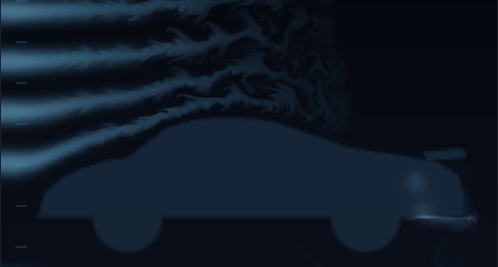
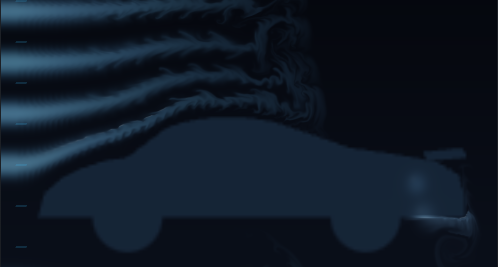
Three model families (car, ship, plane): real jet scene with wingtip vortex pair; hull water rebuilt to read as water (foam at the line, droplets, deep-blue underflow); proof strip now plain evidence (no competitor price, no borrowed funding claim); shelf section lists car/ship/plane models first

diff --git a/wakefield-fluid.js b/wakefield-fluid.js
@@ -306,6 +306,10 @@
     /* horizon glow where sky meets sea */
     '    float hor = exp(-pow((vUv.y - wl) * 130.0, 2.0));',
     '    col = mix(sea, sky, isSky) + vec3(0.100, 0.170, 0.200) * hor;',
+    /* dye under the surface is tinted toward sea water, so the currents read
+       as water and never as pale smoke; foam and spray at the line stay white */
+    '    float dpt = clamp((wl - vUv.y) / 0.30, 0.0, 1.0);',
+    '    c = mix(c, c * vec3(0.50, 0.92, 1.28), dpt);',
     '    col += c * 1.25;',
     '    col += spec * d * 0.55;',
     /* the ship's reflection: mirrored above the line, wobbling, fading with depth */
@@ -476,6 +480,39 @@
     return { x: SHIP_RECT.x + (SHIP_RECT.w - w) / 2, w: w, bottomY: SHIP_RECT.bottomY };
   }
 
+  /* real model sprite: a CC0 regional jet (Innerscene library), nose left into
+     the wind — same contract as the car and the ship. The GLB ships with a
+     ground-shadow mesh; the bottom 92px were cropped off the render.          */
+  var PLANE_IMG_AR = 4.5155;                               /* png width / height */
+  var PLANE_RECT = { x: 0.075, w: 0.85, bottomY: 0.78 };   /* canvas uv, y down  */
+  var PLANE_MASK = null;
+
+  function buildPlaneMask(img) {
+    var cv = newCanvas(Math.round(img.width / 2), Math.round(img.height / 2));
+    var ctx = cv.getContext('2d');
+    ctx.drawImage(img, 0, 0, cv.width, cv.height);
+    var d = ctx.getImageData(0, 0, cv.width, cv.height);
+    var p = d.data;
+    for (var i = 0; i < p.length; i += 4) {
+      if (p[i + 3] > 110) { p[i] = 255; p[i + 1] = 255; p[i + 2] = 255; p[i + 3] = 255; }
+      else { p[i + 3] = 0; }
+    }
+    ctx.putImageData(d, 0, 0);
+    return cv;
+  }
+
+  /* the fin is tall for the fuselage length; shrink on narrow canvases */
+  function planeRectFor(aspect) {
+    var w = PLANE_RECT.w;
+    var hUv = w * aspect / PLANE_IMG_AR;
+    var top = PLANE_RECT.bottomY - hUv * 0.985;
+    if (top < 0.03) {
+      var k = (PLANE_RECT.bottomY - 0.03) / (hUv * 0.985);
+      w *= k;
+    }
+    return { x: PLANE_RECT.x + (PLANE_RECT.w - w) / 2, w: w, bottomY: PLANE_RECT.bottomY };
+  }
+
   var SIL = {
     /* low-slung coupe, side view, nose left */
     car: function (ctx, W, H, op) {
@@ -589,10 +626,21 @@
       var h = w / SHIP_IMG_AR;
       ctx.drawImage(SHIP_MASK, r.x * W, r.bottomY * H - h, w, h);
       return true;
+    },
+
+    /* the real jet: alpha mask into the solver */
+    planeReal: function (ctx, W, H, op) {
+      if (op !== 'fill' || !PLANE_MASK) return false;
+      var r = planeRectFor(W / H);
+      var w = r.w * W;
+      var h = w / PLANE_IMG_AR;
+      ctx.drawImage(PLANE_MASK, r.x * W, r.bottomY * H - h, w, h);
+      return true;
     }
   };
   SIL.carReal.noStroke = true;
   SIL.shipReal.noStroke = true;
+  SIL.planeReal.noStroke = true;
 
   /* --------------------------------- scenes ------------------------------- */
   var SCENES = {
@@ -631,6 +679,18 @@
       waterLine: 0.50, heave: 0.0125, pitchDeg: 1.6, waveAmp: 0.0090,
       tag: 'Live · sail-ship.glb · seaway',
       foot: [['water', '5.2 m/s'], ['wake', 'shedding'], ['solver', 'navier-stokes']]
+    },
+    plane: {
+      mode: 0, sil: 'planeReal', flowDir: 1,  /* wind left -> right, the real jet noses into it */
+      inflow: 7.2, gust: 0.34,
+      velDiss: 0.19, denDiss: 2.90, curl: 20, pressure: 0.84,
+      /* the main rake sweeps the wing chord and separates over the fuselage;
+         the upper pair runs clean above the fin */
+      lineCount: 4, lineFrom: 0.205, lineTo: 0.325,
+      lines2: { count: 2, from: 0.455, to: 0.495 },
+      dye: [0.34, 0.70, 1.00], dyeVar: 0.30, dyeGain: 0.036, splatRadius: 0.050,
+      tag: 'Live · regional-jet.glb · wind tunnel',
+      foot: [['wind', '7.2 m/s'], ['model', 'regional jet'], ['solver', 'navier-stokes']]
     }
   };
 
@@ -657,7 +717,12 @@
        bob, so the solid mask must be static too — otherwise the flow wraps
        around a hull that is not where the eye sees it.                        */
     var drawn = SIL[scene.sil](ctx, W, H, 'fill');
-    if (drawn === false) SIL[scene.sil === 'shipReal' ? 'hull' : 'car'](ctx, W, H, 'fill');   /* sprite not loaded yet */
+    if (drawn === false) {
+      /* no silhouette yet for the real models: the ship falls back to its
+         vector hull, the jet waits for its sprite rather than faking a car */
+      var fb = scene.sil === 'shipReal' ? 'hull' : (scene.sil === 'planeReal' ? null : 'car');
+      if (fb) SIL[fb](ctx, W, H, 'fill');
+    }
     ctx.restore();
   }
 
@@ -770,6 +835,27 @@
         }
       };
       shipImg.src = opts.shipSrc;
+    }
+
+    /* real plane sprite state (a third texture so car + ship + jet coexist) */
+    var planeTex = null, planeReady = false;
+    if (opts.planeSrc && global.Image) {
+      var planeImg = new Image();
+      planeImg.onload = function () {
+        PLANE_MASK = buildPlaneMask(planeImg);
+        planeTex = makeMaskTexture();
+        gl.pixelStorei(gl.UNPACK_FLIP_Y_WEBGL, true);
+        gl.activeTexture(gl.TEXTURE0);
+        gl.bindTexture(gl.TEXTURE_2D, planeTex);
+        gl.texImage2D(gl.TEXTURE_2D, 0, gl.RGBA, gl.RGBA, gl.UNSIGNED_BYTE, planeImg);
+        gl.pixelStorei(gl.UNPACK_FLIP_Y_WEBGL, false);
+        planeReady = true;
+        if (scene.sil === 'planeReal') {
+          rasterizeObstacle(obsCv, scene, 0);
+          uploadMask(obsTex, obsCv);
+        }
+      };
+      planeImg.src = opts.planeSrc;
     }
 
     function makeMaskTexture() {
@@ -908,29 +994,42 @@
       var wl = 1 - scene.waterLine;              /* y-up, matches the shader */
       var p = hullPoints();
       var g = scene.dyeGain;
-      var foam = [0.82, 0.93, 1.00];
-      var deep = [0.42, 0.70, 0.95];
+      var foam = [0.90, 0.97, 1.00];             /* whitewater */
+      var deep = [0.30, 0.62, 0.95];             /* sea-blue current */
       var pulse = 0.75 + Math.abs(Math.sin(t * 0.0021)) * 0.6;
 
-      /* bow: the stem shoulders water aside — a bright foamy collar at the line */
-      splat(p.bow, wl - 0.012, -120 * pulse, 42 * pulse,
-        [foam[0] * g * 2.4, foam[1] * g * 2.4, foam[2] * g * 2.4], 0.050);
-      splat(p.bow - 0.030, wl - 0.034, -80 * pulse, -28 * pulse,
-        [deep[0] * g * 1.7, deep[1] * g * 1.7, deep[2] * g * 1.7], 0.044);
+      /* bow: broken whitewater AT the waterline — never a tall pale column,
+         that reads as smoke. The stem shoulders water aside; foam sheds aft. */
+      splat(p.bow, wl - 0.004, -95 * pulse, 6 * pulse,
+        [foam[0] * g * 2.0, foam[1] * g * 2.0, foam[2] * g * 2.0], 0.028);
+      splat(p.bow - 0.016, wl - 0.010, -70 * pulse, -6 * pulse,
+        [foam[0] * g * 1.4, foam[1] * g * 1.4, foam[2] * g * 1.4], 0.022);
+      /* spray: a few droplets off the stem, thrown up and fanned back */
+      for (var i = 0; i < 3; i++) {
+        splat(p.bow - 0.006 + (Math.random() - 0.5) * 0.012,
+              wl + 0.004 + Math.random() * 0.012,
+              -60 * pulse - Math.random() * 50,
+              26 + Math.random() * 52,
+              [foam[0] * g * 2.6, foam[1] * g * 2.6, foam[2] * g * 2.6],
+              0.009 + Math.random() * 0.008);
+      }
+      /* under-bow current: the sea is deflected DOWN along the hull */
+      splat(p.bow - 0.030, wl - 0.034, -80 * pulse, -34 * pulse,
+        [deep[0] * g * 1.8, deep[1] * g * 1.8, deep[2] * g * 1.8], 0.044);
 
-      /* stern: the wake is shed from the transom and carried downstream */
+      /* stern: whitewater off the transom, then the wake carried downstream */
       var shed = 0.60 + Math.abs(Math.sin(t * 0.0013)) * 0.55;
-      splat(p.stern, wl - 0.014, -105 * shed, -26 * shed,
-        [foam[0] * g * 2.8, foam[1] * g * 2.8, foam[2] * g * 2.8], 0.052);
-      splat(p.stern + 0.025, wl - 0.038, -70 * shed, -40 * shed,
-        [deep[0] * g * 1.9, deep[1] * g * 1.9, deep[2] * g * 1.9], 0.042);
+      splat(p.stern, wl - 0.005, -100 * shed, -4 * shed,
+        [foam[0] * g * 2.2, foam[1] * g * 2.2, foam[2] * g * 2.2], 0.030);
+      splat(p.stern + 0.025, wl - 0.030, -70 * shed, -30 * shed,
+        [deep[0] * g * 2.0, deep[1] * g * 2.0, deep[2] * g * 2.0], 0.042);
 
-      /* skin of foam where the hull meets the sea, densest at the quarters */
+      /* broken water where the hull meets the sea */
       for (var i = 0; i < 3; i++) {
         var f = 0.22 + i * 0.28;
         var x = p.stern + (p.bow - p.stern) * f;
-        splat(x, wl - 0.006, -60 * shed, -8 * shed,
-          [foam[0] * g * 1.2, foam[1] * g * 1.2, foam[2] * g * 1.2], 0.030);
+        splat(x, wl - 0.004, -55 * shed, -6 * shed,
+          [foam[0] * g * 0.9, foam[1] * g * 0.9, foam[2] * g * 0.9], 0.020);
       }
     }
 
@@ -957,6 +1056,35 @@
       var u = scene.flowDir * scene.inflow * 16 * shed;
       splat(0.852, 0.302 + flap, u, 14 * shed, [0.40 * g, 0.66 * g, 0.94 * g], 0.048);
       splat(0.838, 0.372 + flap * 0.6, u * 0.75, -22 * shed, [0.30 * g, 0.55 * g, 0.85 * g], 0.040);
+    }
+
+    /* jet: the counter-rotating pair rolls up off the wing and trails
+       downstream, plus the tail-cone wake — the tunnel shot every aircraft
+       modeller knows. Both anchors are read off the real sprite rect, so the
+       trails start exactly where the eye sees the wing and the tail.         */
+    function injectPlane(t) {
+      if (scene.sil !== 'planeReal' || !planeReady) return;
+      var g = scene.dyeGain;
+      var r = planeRectFor(canvas.width / canvas.height);
+      var hUv = r.w * (canvas.width / canvas.height) / PLANE_IMG_AR;
+      /* png fraction -> canvas uv (y-up): wing root at x .475 / y .831,
+         tail cone at x .895 / y .727, measured on the rendered jet png */
+      var toUv = function (fx, fy) {
+        return { x: r.x + fx * r.w, y: 1 - (r.bottomY - hUv + fy * hUv) };
+      };
+      var wing = toUv(0.475, 0.831);
+      var tail = toUv(0.895, 0.727);
+      var shed = 0.60 + Math.abs(Math.sin(t * 0.0015)) * 0.55;
+      var u = scene.flowDir * scene.inflow * 15 * shed;
+      var wob = Math.sin(t * 0.0026) * 0.004;
+      /* the pair: one core above the chord, one below, counter-rotating */
+      splat(wing.x + 0.010, wing.y + 0.024 + wob, u * 0.92,  34 * shed,
+        [0.40 * g, 0.66 * g, 0.94 * g], 0.014);
+      splat(wing.x + 0.010, wing.y - 0.024 + wob, u * 0.92, -34 * shed,
+        [0.30 * g, 0.55 * g, 0.85 * g], 0.014);
+      /* tail cone wake */
+      splat(tail.x, tail.y + wob * 0.6, u * 0.80, Math.sin(t * 0.0031) * 12,
+        [0.34 * g, 0.62 * g, 0.92 * g], 0.020);
     }
 
     /* ------------------------------ boundary ------------------------------ */
@@ -1071,9 +1199,12 @@
       var rect = null, tex = null;
       if (scene.sil === 'carReal' && spriteReady) { rect = CAR_RECT; tex = spriteTex; }
       if (scene.sil === 'shipReal' && shipReady) { rect = shipRectFor(canvas.width / canvas.height); tex = shipTex; }
+      if (scene.sil === 'planeReal' && planeReady) { rect = planeRectFor(canvas.width / canvas.height); tex = planeTex; }
       if (tex) {
         var aspect = canvas.width / canvas.height;
-        var imgAR = (rect === CAR_RECT) ? CAR_IMG_AR : SHIP_IMG_AR;
+        var imgAR = CAR_IMG_AR;
+        if (scene.sil === 'shipReal') imgAR = SHIP_IMG_AR;
+        if (scene.sil === 'planeReal') imgAR = PLANE_IMG_AR;
         var hUv = rect.w * aspect / imgAR;
         gl.uniform1i(pDisplay.u.uSprite, 2);
         gl.activeTexture(gl.TEXTURE2); gl.bindTexture(gl.TEXTURE_2D, tex);
@@ -1164,6 +1295,22 @@
           ctx.quadraticCurveTo(cx, yy - H * 0.004, cx + len / 2, yy);
           ctx.stroke();
         }
+
+        /* bow wave: a bright crest piles up at the stem and runs forward */
+        var bw = hullPoints();
+        var bwX = bw.bow * W;
+        var bwY = waveAt(bwX, 7.2, 0, amp);
+        ctx.save();
+        ctx.strokeStyle = 'rgba(205,252,255,.55)';
+        ctx.lineWidth = Math.max(1.2, W * 0.0026);
+        ctx.shadowColor = 'rgba(94,234,212,.9)';
+        ctx.shadowBlur = W * 0.014;
+        ctx.beginPath();
+        ctx.moveTo(bwX - W * 0.004, bwY - H * 0.004);
+        ctx.quadraticCurveTo(bwX + W * 0.040, bwY - H * 0.022,
+                             bwX + W * 0.082, bwY + H * 0.005);
+        ctx.stroke();
+        ctx.restore();
       } else {
         /* inlet rake on the left */
         ctx.save();
@@ -1209,6 +1356,7 @@
         if (scene.mode === 1) injectHull(now);
         injectHair(now);
         injectCarWake(now);
+        injectPlane(now);
         step(dt);
       }
       warm++;
@@ -1276,6 +1424,7 @@
       getScene: function () { return scene; },
       spriteReady: function () { return spriteReady; },
       shipReady: function () { return shipReady; },
+      planeReady: function () { return planeReady; },
       isWebGL2: info.isWebGL2
     };
   }

diff --git a/index.html b/index.html
@@ -4,7 +4,7 @@
 <meta charset="UTF-8">
 <meta name="viewport" content="width=device-width, initial-scale=1.0">
 <title>Wakefield — Give it wind. Give it water.</title>
-<meta name="description" content="Upload your car or ship model, pick air or water, and get the film back — smoke off the canopy, a bow wave off the stem, spray over the deck.">
+<meta name="description" content="Upload your car, ship or plane model, pick air or water, and get the film back — smoke off the canopy, a bow wave off the stem, spray over the deck.">
 <link rel="icon" type="image/svg+xml" href="favicon.svg">
 <link rel="preconnect" href="https://fonts.googleapis.com">
 <link rel="preconnect" href="https://fonts.gstatic.com" crossorigin>
@@ -235,10 +235,10 @@
 <header class="hero">
   <div class="wrap hero-grid">
     <div>
-      <div class="eyebrow"><span class="dot"></span>For car &amp; ship model enthusiasts</div>
+      <div class="eyebrow"><span class="dot"></span>For car, ship &amp; plane model enthusiasts</div>
       <h1>Give it <em>wind.</em><br>Give it <em>water.</em></h1>
       <p class="sub">
-        Upload the model you already own &mdash; <b>STL, OBJ or GLB.</b>
+        Upload the model you already own &mdash; <b>car, ship or plane.</b> STL, OBJ or GLB.
         We run it through a real Navier&ndash;Stokes solver, the same physics a wind tunnel uses,
         and send back the film: <b>smoke off the canopy, a bow wave off the stem, spray over the deck.</b>
         No rigging, no baking &mdash; about a minute.
@@ -258,6 +258,7 @@
       <div class="tabs" role="tablist">
         <button class="tab on" data-scene="car" role="tab">Coupe</button>
         <button class="tab" data-scene="hull" role="tab">Hull</button>
+        <button class="tab" data-scene="plane" role="tab">Plane</button>
       </div>
 
       <canvas id="fluid"></canvas>
@@ -278,12 +279,12 @@
       <span>from upload to film. No rigging, no baking &mdash; the physics just runs.</span>
     </div>
     <div class="proof-stat">
-      <b>$79</b>
-      <span>what a fluid addon costs &mdash; and then you still spend an evening baking each splash by hand.</span>
+      <b>Real solver</b>
+      <span>a true Navier&ndash;Stokes solve &mdash; the same physics a wind tunnel runs.</span>
     </div>
     <div class="proof-stat">
       <b>Air + water</b>
-      <span>both fluids on one upload. Nothing has made the wake behind a hull easy yet.</span>
+      <span>wind for the car and the plane, sea for the ship. One upload.</span>
     </div>
   </div>
 </section>
@@ -360,18 +361,18 @@
   <div class="wrap">
     <div class="sec-head">
       <span class="sec-num">03 &mdash; WHAT PEOPLE RUN</span>
-      <h2>Anything you already own.</h2>
+      <h2>Cars, ships, planes &mdash; and the rest of the shelf.</h2>
     </div>
     <div class="shelf-grid">
       <div>
         <div class="ex-row">
+          <span class="ex hi">Car models</span>
+          <span class="ex hi">Ship models</span>
+          <span class="ex hi">Plane models</span>
           <span class="ex">Figurines</span>
           <span class="ex">Anime &amp; game figures</span>
-          <span class="ex">Collectibles</span>
-          <span class="ex hi">Ship models</span>
-          <span class="ex">Cars &amp; diecast</span>
           <span class="ex">Dioramas</span>
-          <span class="ex">Anything on your shelf</span>
+          <span class="ex">Kit builds &amp; prints</span>
         </div>
       <div class="show-visual">
         <span class="viz-tag">Proof &middot; hull &middot; computed wake</span>
@@ -467,7 +468,7 @@
         <input type="email" name="email" placeholder="you@mail.com" autocomplete="email" required>
       </div>
       <div class="field">
-        <input type="text" name="model" placeholder="Your model &mdash; e.g. 1:18 diecast, figurine, ship">
+        <input type="text" name="model" placeholder="Your model &mdash; e.g. 1:18 diecast, ship, jet">
       </div>
       <div class="field">
         <select name="flow" aria-label="Air or water">
@@ -487,7 +488,7 @@
   <div class="wrap foot-in">
     <p>WAKEFIELD &mdash; AIR &amp; WATER, MADE VISIBLE</p>
     <p>PRIVATE BETA &middot; 2026</p>
-    <p class="credit">Demo vehicles: Ferrari 458 Italia by <a href="https://sketchfab.com/models/57bf6cc56931426e87494f554df1dab6" target="_blank" rel="noopener noreferrer">vicent091036</a>, via <a href="https://threejs.org/examples/webgl_materials_car.html" target="_blank" rel="noopener noreferrer">three.js</a> &middot; Sail Ship by <a href="https://quaternius.com" target="_blank" rel="noopener noreferrer">Quaternius</a>, public domain (CC0).</p>
+    <p class="credit">Demo vehicles: Ferrari 458 Italia by <a href="https://sketchfab.com/models/57bf6cc56931426e87494f554df1dab6" target="_blank" rel="noopener noreferrer">vicent091036</a>, via <a href="https://threejs.org/examples/webgl_materials_car.html" target="_blank" rel="noopener noreferrer">three.js</a> &middot; Sail Ship by <a href="https://quaternius.com" target="_blank" rel="noopener noreferrer">Quaternius</a>, public domain (CC0) &middot; Regional jet by <a href="https://www.innerscene.com/tools/library/3d-parts/regional-jet-aircraft-ae1f8f3d" target="_blank" rel="noopener noreferrer">Innerscene</a>, CC0.</p>
   </div>
 </footer>
 <script src="wakefield-fluid.js"></script>
@@ -514,6 +515,7 @@
         scene: 'car',
         spriteSrc: 'assets/ferrari-body.png',
         shipSrc: 'assets/sailship-body.png',
+        planeSrc: 'assets/jet-body.png',
         simResolution: SIM_RES,
         dyeResolution: DYE_RES,
         pressureIterations: PRESSURE,
@@ -565,7 +567,8 @@
         f3 = document.getElementById('foot-3');
     var META = {
       car:    { tag: 'Live \u00b7 ferrari-458.glb \u00b7 wind tunnel', a: ['wind', '6.6 m/s'], b: ['model', 'ferrari 458'], c: ['solver', 'navier-stokes'] },
-      hull:   { tag: 'Live \u00b7 sail-ship.glb \u00b7 seaway',      a: ['water', '5.2 m/s'], b: ['wake', 'shedding'], c: ['solver', 'navier-stokes'] }
+      hull:   { tag: 'Live \u00b7 sail-ship.glb \u00b7 seaway',      a: ['water', '5.2 m/s'], b: ['wake', 'shedding'], c: ['solver', 'navier-stokes'] },
+      plane:  { tag: 'Live \u00b7 regional-jet.glb \u00b7 wind tunnel', a: ['wind', '7.2 m/s'], b: ['model', 'regional jet'], c: ['solver', 'navier-stokes'] }
     };
     Array.prototype.forEach.call(tabs, function (btn) {
       btn.addEventListener('click', function () {
